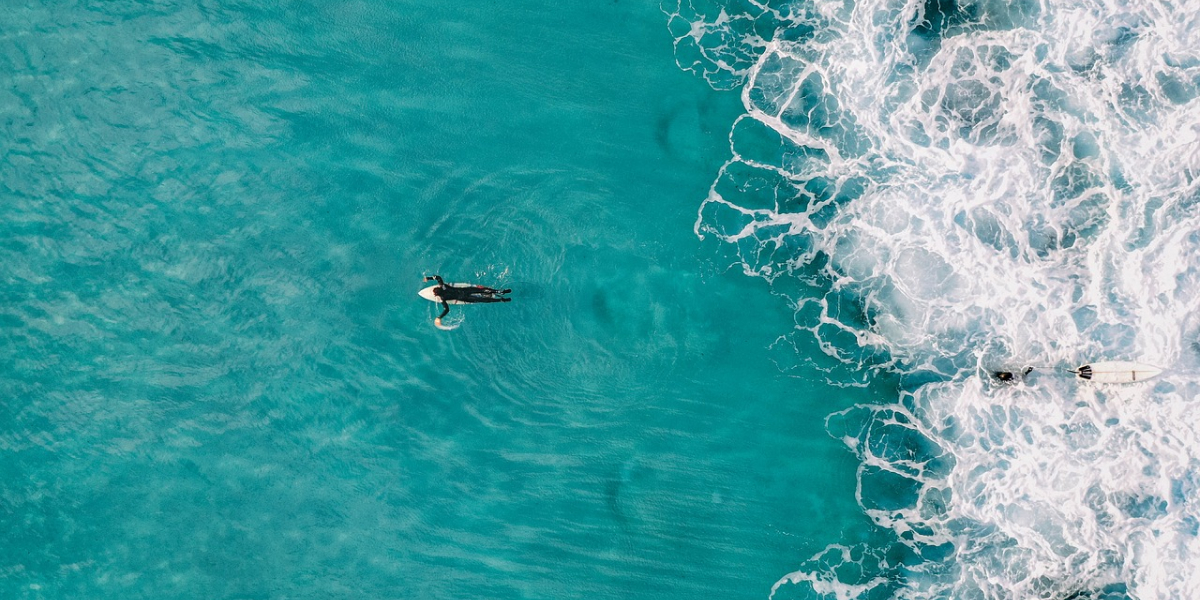
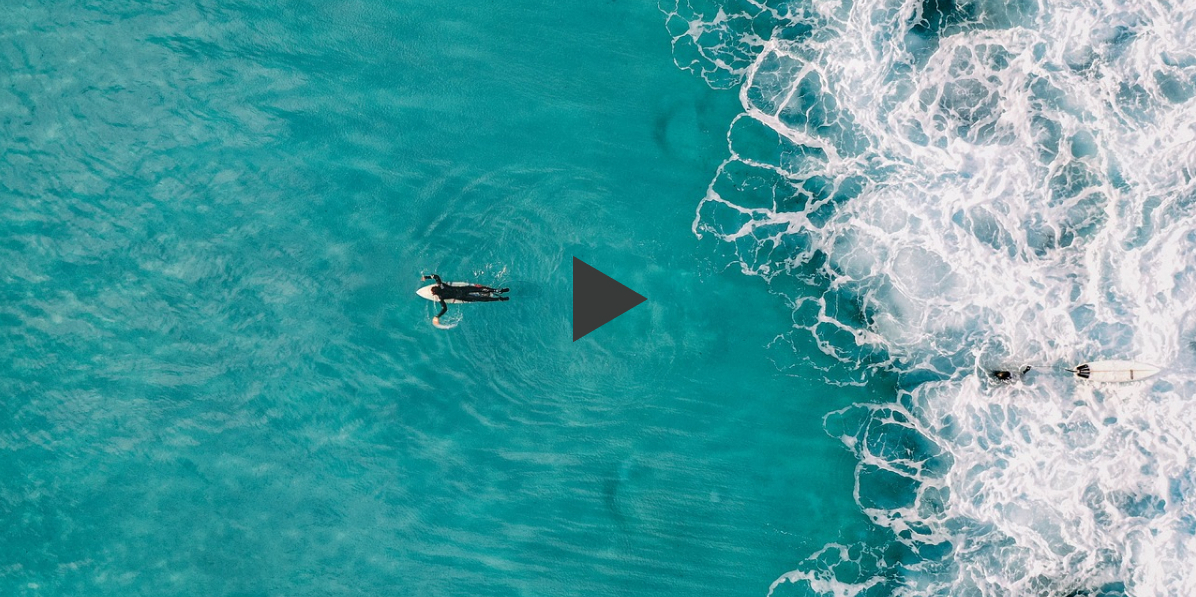
fix mistakes

diff --git a/src/components/GetTop/GetTop.styled.jsx b/src/components/GetTop/GetTop.styled.jsx
@@ -1,8 +1,7 @@
 import styled from '@emotion/styled';
 
 export const Section = styled.section`
-  margin: 332px auto 0;
-  width: 1920px;
+  margin-top: 332px;
 `;
 export const GetTopPictureBox = styled.div`
   display: flex;
@@ -50,6 +49,9 @@ export const GetTopImg = styled.img`
 `;
 export const GalleryBox = styled.div`
   padding: 200px 360px;
+  display: flex;
+  flex-direction: column;
+  align-items: center;
 `;
 export const Gallary = styled.div``;
 export const GallaryImg = styled.img`
@@ -71,9 +73,33 @@ export const GallaryBtn = styled.button`
   line-height: 18px;
   color: #242121;
   display: block;
-  margin: 50px auto 0;
+  margin-top: 50px;
   &:hover,
   &:focus {
     border: 2px solid;
+  }
+`;
+export const ChooseImgList = styled.ul`
+  padding: 0;
+  margin: 0;
+  margin: 183px 0 50px;
+  display: flex;
+  align-self: flex-start;
+`;
+export const ChooseImgItem = styled.li`
+  margin: 0;
+  list-style-type: none;
+  &:not(:last-child) {
+    margin-right: 20px;
+  }
+  font-family: 'Roboto Condensed';
+  font-style: normal;
+  font-weight: 400;
+  font-size: 24px;
+  letter-spacing: 0.6px;
+  color: #242121;
+  &:hover,
+  &:focus {
+    color: #00b2a0;
   }
 `;

diff --git a/src/components/GetTop/GetTop.jsx b/src/components/GetTop/GetTop.jsx
@@ -11,6 +11,8 @@ import {
   GalleryBox,
   GallaryImg,
   GallaryBtn,
+  ChooseImgList,
+  ChooseImgItem,
 } from './GetTop.styled';
 import { Slash } from 'components/AboutSchool/AboutSchool.styled';
 import sprite from '../../images/sprite.svg';
@@ -59,6 +61,18 @@ function GetTop() {
         <GetTopImg src={Top} alt="next" />
       </GetTopPictureBox>
       <GalleryBox>
+        <GetTopTitleBox>
+          <GetTopTitle>ГАЛЕРЕЯ</GetTopTitle>
+          <Slash>
+            <use href={sprite + '#Slash'} />
+          </Slash>
+        </GetTopTitleBox>
+        <ChooseImgList>
+          <ChooseImgItem>ВСЕ</ChooseImgItem>
+          <ChooseImgItem>ТУРИСТЫ</ChooseImgItem>
+          <ChooseImgItem>ПРИРОДА</ChooseImgItem>
+          <ChooseImgItem>ПРОФИ</ChooseImgItem>
+        </ChooseImgList>
         <Gallary>
           <GallaryImg src={Gal1} />
           <GallaryImg src={Gal2} />

diff --git a/src/components/Blog/Blog.styled.jsx b/src/components/Blog/Blog.styled.jsx
@@ -1,25 +1,25 @@
 import styled from '@emotion/styled';
-import Main from '../../images/Main.jpg';
+import Blog from '../../images/Blog.jpg';
 
 export const Section = styled.section`
   display: flex;
   flex-direction: column;
-  align-items: center;
   padding-bottom: 200px;
 `;
 export const ImgBox = styled.div`
-  background-image: url(${Main});
+  background-image: url(${Blog});
+  background-size: cover;
   background-position: bottom;
   display: flex;
   justify-content: end;
   align-items: center;
-  width: 1920px;
   height: 800px;
 `;
 
 export const SectionTitleBox = styled.div`
   display: flex;
   margin-bottom: 200px;
+  align-self: center;
 `;
 export const SectionTitle = styled.h2`
   margin: 0;

diff --git a/src/components/Header/Header.styled.jsx b/src/components/Header/Header.styled.jsx
@@ -2,10 +2,10 @@ import styled from '@emotion/styled';
 import Main from '../../images/Main.jpg';
 
 export const Section = styled.section`
-  width: 1920px;
   height: 1080px;
   margin: 0 auto;
   background-image: url(${Main});
+  background-size: cover;
 `;
 
 export const Img = styled.img`
@@ -72,4 +72,10 @@ export const TitleBox = styled.div`
 export const TextBox = styled.div`
   margin: 0 auto;
   width: max-content;
+`;
+export const Svg = styled.svg`
+  display: block;
+  margin: 315px auto 0;
+  width: 20px;
+  height: 69px;
 `;

diff --git a/src/components/Header/Header.jsx b/src/components/Header/Header.jsx
@@ -13,7 +13,9 @@ import {
   Title,
   TextBox,
   Text,
+  Svg,
 } from './Header.styled';
+import sprite from '../../images/sprite.svg';
 
 function Header() {
   return (
@@ -61,6 +63,9 @@ function Header() {
       <TextBox>
         <Text>Школа серфинга на канарских Островах</Text>
       </TextBox>
+      <Svg>
+        <use href={sprite + '#Icon'} />
+      </Svg>
     </Section>
   );
 }

diff --git a/src/components/Servicies/Servicies.styled.jsx b/src/components/Servicies/Servicies.styled.jsx
@@ -3,8 +3,6 @@ import styled from '@emotion/styled';
 export const Section = styled.section`
   padding: 200px 360px;
   background: #f8f8f8;
-  margin: 0 auto;
-  width: 1920px;
   display: flex;
   flex-direction: column;
 `;

diff --git a/src/components/DontHesitate/DontHesitate.styled.jsx b/src/components/DontHesitate/DontHesitate.styled.jsx
@@ -6,8 +6,6 @@ export const Section = styled.section`
   flex-direction: column;
   background: #f8f8f8;
   align-items: center;
-  width: 1920px;
-  margin: 0 auto;
 `;
 export const MainText = styled.p`
   margin: 0;

diff --git a/src/components/GetFromSchool/GetFromSchool.styled.jsx b/src/components/GetFromSchool/GetFromSchool.styled.jsx
@@ -5,8 +5,6 @@ export const Section = styled.section`
   display: flex;
   flex-direction: column;
   align-items: center;
-  width: 1920px;
-  margin: 0 auto;
   background-color: #f8f8f8;
 `;
 

diff --git a/src/components/Footer/Footer.styled.jsx b/src/components/Footer/Footer.styled.jsx
@@ -1,8 +1,6 @@
 import styled from '@emotion/styled';
 
 export const Footr = styled.footer`
-  margin: 0 auto;
-  width: 1920px;
   height: 200px;
   display: flex;
   align-items: center;

diff --git a/src/components/Video/Video.styled.jsx b/src/components/Video/Video.styled.jsx
@@ -1,6 +1,7 @@
 import styled from '@emotion/styled';
 
 export const VideoBox = styled.div`
+  position: relative;
   padding: 200px 0;
 `;
 export const StatListBox = styled.div`

diff --git a/src/components/Video/Video.jsx b/src/components/Video/Video.jsx
@@ -9,7 +9,6 @@ import {
   Vid,
 } from './Video.styled';
 import Wawe from '../../images/Wawe.mp4';
-
 import Post from '../../images/Poster.jpg';
 
 function Video() {
